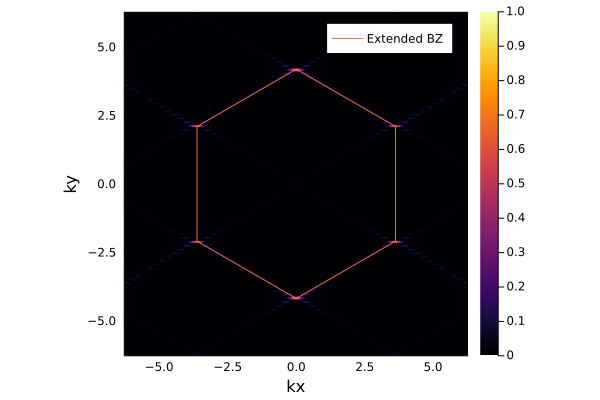
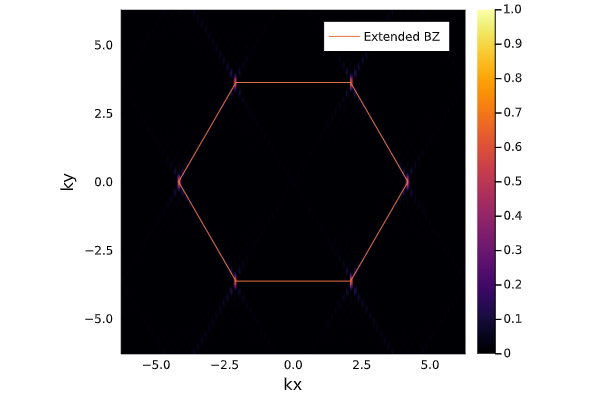
Fixed mixup of x- and y-axis in structure factor plot

diff --git a/README.md b/README.md
@@ -260,15 +260,15 @@ for i in 1:N
         for k in 1:length(lattice)
             z += cos(dot((kx[i],ky[j]),getSitePosition(lattice,k))) * correlation[k]
         end
-        structurefactor[i,j] = z / length(lattice)
+        structurefactor[j,i] = z / length(lattice)
     end
 end
 
 # Plot result
 using Plots
 heatmap(kx,ky,structurefactor,aspect_ratio=1,xrange=(-2pi,2pi),yrange=(-2pi,2pi),clims=(0,1),xlabel="kx", ylabel="ky")
-xs = [0.0, 2.0pi/sqrt(3.0), 2.0pi/sqrt(3.0), 0.0, -2.0pi/sqrt(3.0), -2.0pi/sqrt(3.0), 0.0]
-ys = [4.0pi/3.0, 2.0pi/3.0, -2.0pi/3.0, -4.0pi/3.0, -2.0pi/3.0, 2.0pi/3.0, 4.0pi/3.0]
+xs = [4.0pi/3.0, 2.0pi/3.0, -2.0pi/3.0, -4.0pi/3.0, -2.0pi/3.0, 2.0pi/3.0, 4.0pi/3.0]
+ys = [0.0, 2.0pi/sqrt(3.0), 2.0pi/sqrt(3.0), 0.0, -2.0pi/sqrt(3.0), -2.0pi/sqrt(3.0), 0.0]
 plot!(xs, ys, label="Extended BZ")
 ```
 ![](doc/src/assets/plot_structurefactor.png)
